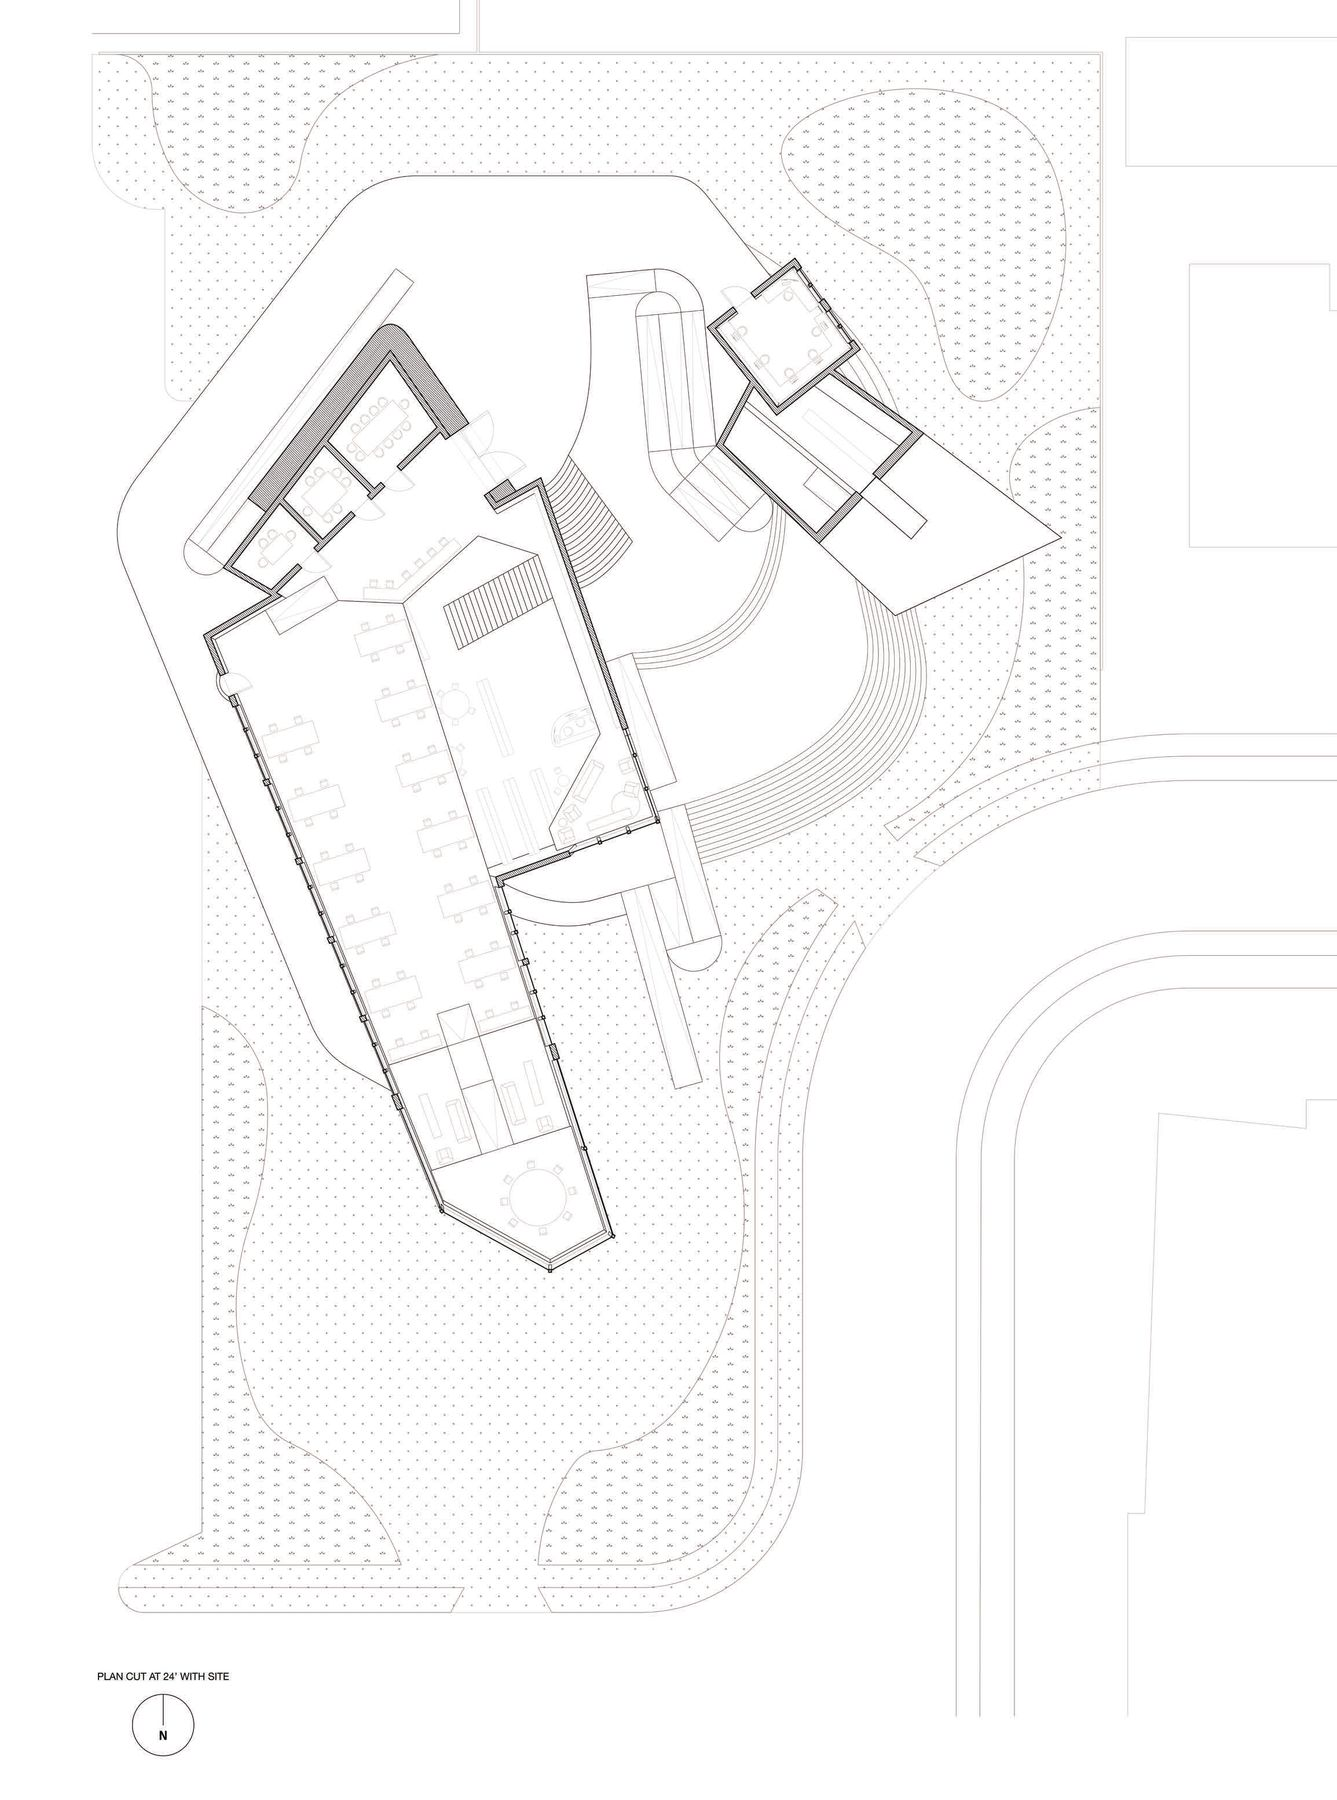
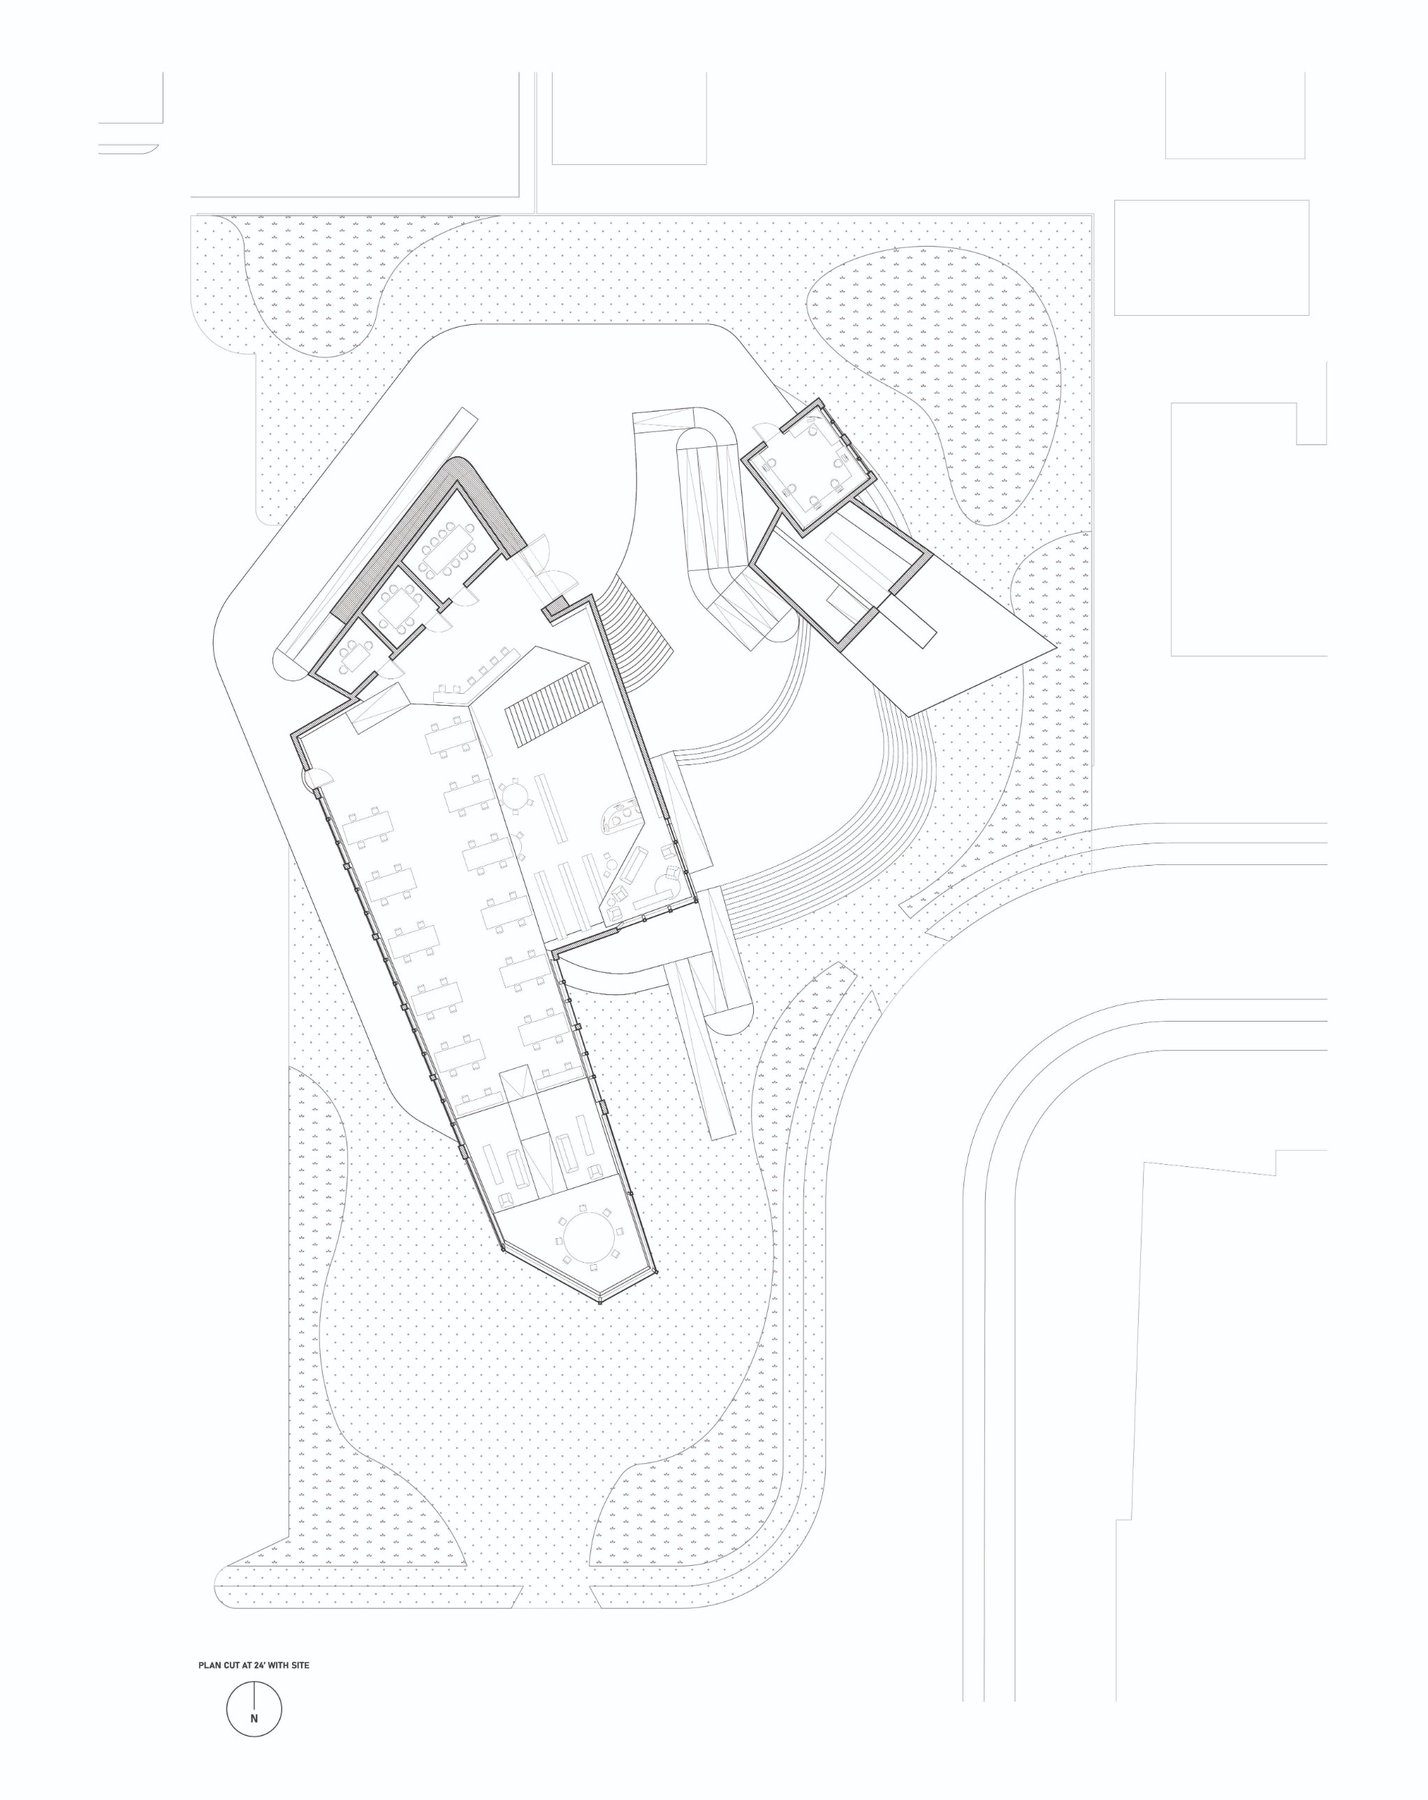
Replace MFAH Library photos and drawings with new versions
Claude-Session: https://claude.ai/code/session_014P4HtxNjHqz1LRypPXgB5u

diff --git a/index.html b/index.html
@@ -296,11 +296,11 @@ const PROJECTS = [
     facts: { Course: "ARCH 101", Instructors: "Nathan Friedman, Tung Nguyen", Type: "Library", Term: "Fall 2025", Media: "Physical model, digital drawings", Site: "Museum of Fine Arts, Houston" },
     intro: "An extension of the Museum of Fine Arts, Houston campus: a library on a vacant lot northeast of the Glassell School of Art, with an exhibition gallery, a fine art book collection and a children's area.",
     blocks: [
-      { full: ["mfah-hero", "Physical model"] },
+      { full: ["mfah-hero", "Physical model, elevation view"] },
       { pair: [["mfah-aerial", "Model, aerial view"], ["mfah-cantilever", "The cantilevered public volume"]] },
       { text: ["The brief asked that the design take inspiration from Totem and Geometric Abstraction. The spatial sequence uses a series of irregular quadrilaterals derived directly from the geometry study to generate an interplay between solid mass and open void.",
                "The structural liberation of the ground plane is guided by precedents like Diller Scofidio + Renfro's ICA Boston and OMA's Milstein Hall."] },
-      { pair: [["mfah-plan-12", "Plan, cut at 12'"], ["mfah-site-plan", "Plan, cut at 24', with site"]] },
+      { row: [["mfah-plan-12", "Plan, cut at 12'"], ["mfah-site-plan", "Plan, cut at 24', with site"]] },
       { full: ["mfah-section", "Section"] },
       { text: ["The internal logic of the architecture relies on fracturing the footprint into distinct structures. This keeps the ground plane porous and introduces terraced outdoor platforms between the buildings.",
                "Subverting traditional programming, the spatial hierarchy makes the program increasingly public as one moves up through the building. This upward trajectory ends in the cantilevered volume: an expansive public space hovering above the site that acts as a social condenser while sheltering the pedestrian landscape below."] },
@@ -365,7 +365,7 @@ const OTHER = [
 
 /* ---------- Rendering ---------- */
 /* Width / height of each image, used to give photos in the same row the same height. */
-const DIMS = {"cover-totem-bw": 0.713, "ext-composite-map": 1.016, "ext-hero": 1.001, "ext-line-1": 1.0, "ext-line-10": 1.0, "ext-line-1000": 1.0, "ext-materials": 1.009, "ext-night": 1.007, "ext-radial": 1.001, "ga-drawing-series": 1.0, "ga-final-1": 1.0, "ga-final-2": 1.0, "ga-hero": 1.5, "ga-model-series": 1.0, "ga-section-1": 1.0, "ga-section-2": 1.0, "int-axon": 0.6, "int-hero": 0.716, "int-light-plan": 0.433, "int-model-1": 1.508, "int-model-2": 1.022, "int-sections": 0.517, "menil-axon": 1.508, "menil-circulation": 0.8, "menil-hero": 1.011, "menil-hilltop-plan": 0.982, "menil-model-1": 1.007, "menil-model-2": 1.023, "menil-model-3": 1.015, "menil-model-4": 1.018, "menil-plan": 1.087, "menil-section-a": 1.461, "menil-section-b": 1.541, "menil-site-plan": 1.0, "menil-transformations": 0.48, "mfah-aerial": 1.0, "mfah-axon": 1.0, "mfah-cantilever": 1.006, "mfah-hero": 1.576, "mfah-plan-12": 0.75, "mfah-section": 2.128, "mfah-site-plan": 0.742, "totem-color": 0.71, "totem-detail": 0.71, "totem-hero": 0.714, "totem-plan-section": 0.621, "totem-unit": 0.621};
+const DIMS = {"cover-totem-bw": 0.713, "ext-composite-map": 1.016, "ext-hero": 1.001, "ext-line-1": 1.0, "ext-line-10": 1.0, "ext-line-1000": 1.0, "ext-materials": 1.009, "ext-night": 1.007, "ext-radial": 1.001, "ga-drawing-series": 1.0, "ga-final-1": 1.0, "ga-final-2": 1.0, "ga-hero": 1.5, "ga-model-series": 1.0, "ga-section-1": 1.0, "ga-section-2": 1.0, "int-axon": 0.6, "int-hero": 0.716, "int-light-plan": 0.433, "int-model-1": 1.508, "int-model-2": 1.022, "int-sections": 0.517, "menil-axon": 1.508, "menil-circulation": 0.8, "menil-hero": 1.011, "menil-hilltop-plan": 0.982, "menil-model-1": 1.007, "menil-model-2": 1.023, "menil-model-3": 1.015, "menil-model-4": 1.018, "menil-plan": 1.087, "menil-section-a": 1.461, "menil-section-b": 1.541, "menil-site-plan": 1.0, "menil-transformations": 0.48, "mfah-aerial": 1.0, "mfah-axon": 1.0, "mfah-cantilever": 1.0, "mfah-hero": 1.5, "mfah-plan-12": 0.816, "mfah-section": 1.518, "mfah-site-plan": 0.793, "totem-color": 0.71, "totem-detail": 0.71, "totem-hero": 0.714, "totem-plan-section": 0.621, "totem-unit": 0.621};
 const app = document.getElementById("app");
 const esc = s => String(s).replace(/[&<>"]/g, c => ({ "&": "&amp;", "<": "&lt;", ">": "&gt;", '"': "&quot;" }[c]));
 const pad = n => String(n).padStart(2, "0");
